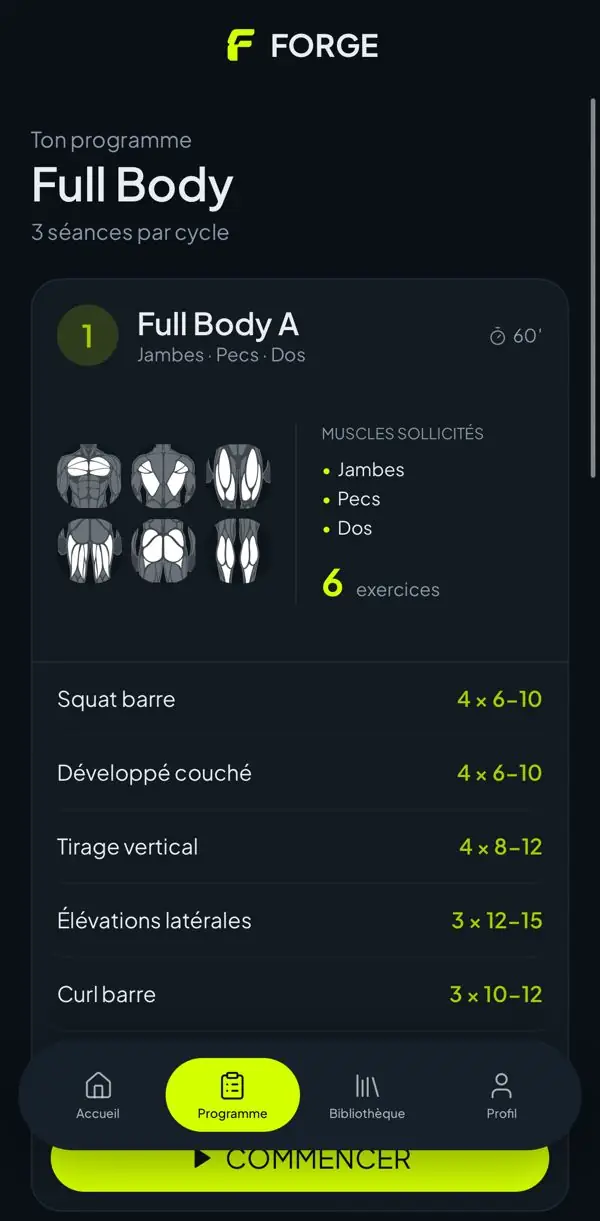
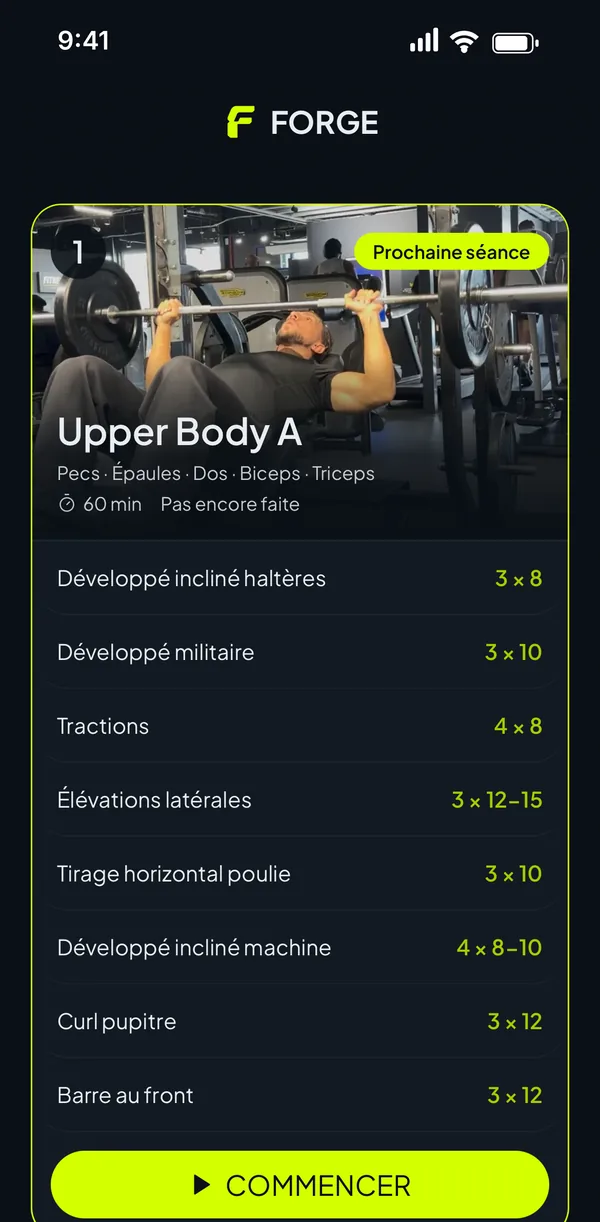
Site : écrans récents de l'app (accueil, programme, séance, bibliothèque vidéo, coach)
Claude-Session: https://claude.ai/code/session_01FYGonBcNeo2xoSqPsmddsJ

diff --git a/index.html b/index.html
@@ -9,7 +9,7 @@
 <title>FORGE Musculation</title>
 <link rel="preload" href="assets/anton.woff2" as="font" type="font/woff2" crossorigin>
 <link rel="preload" href="assets/u700.woff2" as="font" type="font/woff2" crossorigin>
-<link rel="preload" href="assets/program.webp" as="image" type="image/webp" fetchpriority="high">
+<link rel="preload" href="assets/home.webp" as="image" type="image/webp" fetchpriority="high">
 <script>var IN_APP=/musical_ly|BytedanceWebview|TikTok|Instagram|FBAN|FBAV|FB_IAB|Snapchat|Twitter|Line\//i.test(navigator.userAgent||'');if(IN_APP)document.documentElement.className='ingate'</script>
 <style>
 @font-face{font-family:"Anton";font-display:swap;src:url(assets/anton.woff2) format("woff2")}
@@ -134,7 +134,7 @@ footer .wrap{padding-block:28px;display:flex;flex-wrap:wrap;justify-content:spac
       <div class="meta"><span><span class="stars">★★★★★</span> 5,0 sur l'App Store</span><span>Gratuit · achats intégrés</span></div>
     </div>
   </div>
-  <div class="phone"><img src="assets/program.webp" width="600" height="1221" alt="Écran Programme de FORGE : programme Full Body avec ses exercices" fetchpriority="high" decoding="async"></div>
+  <div class="phone"><img src="assets/home.webp" width="600" height="1222" alt="Accueil de FORGE : séance du jour, semaine d'entraînement et repas du jour" fetchpriority="high" decoding="async"></div>
 </div></section>
 
 <hr class="rule">
@@ -147,7 +147,7 @@ footer .wrap{padding-block:28px;display:flex;flex-wrap:wrap;justify-content:spac
       <p>Full Body, Push Pull Legs, Haut / Bas : FORGE construit ton programme selon ton objectif, ton niveau, ton matériel et tes jours dispo.</p>
       <ul><li>Prise de muscle, sèche ou force</li><li>Séries et répétitions déjà calées</li></ul>
     </div>
-    <div class="phone"><img src="assets/program.webp" width="600" height="1221" alt="Programme Full Body A : squat, développé couché, tirage vertical" loading="lazy" decoding="async"></div>
+    <div class="phone"><img src="assets/program.webp" width="600" height="1222" alt="Programme Upper Body A : développé incliné, développé militaire, tractions" loading="lazy" decoding="async"></div>
   </article>
   <article class="feat">
     <div class="txt">
@@ -156,16 +156,25 @@ footer .wrap{padding-block:28px;display:flex;flex-wrap:wrap;justify-content:spac
       <p>Tu vois ce que tu as fait la dernière fois, tu notes tes kilos et tes reps, et tu sais tout de suite si tu as progressé.</p>
       <ul><li>Performances précédentes affichées</li><li>Minuteur de repos automatique</li><li>Records et graphiques de progression</li></ul>
     </div>
-    <div class="phone"><img src="assets/session.webp" width="600" height="1221" alt="Écran de séance : squat barre avec séries, kilos, reps et minuteur de repos" loading="lazy" decoding="async"></div>
+    <div class="phone"><img src="assets/session.webp" width="600" height="1222" alt="Écran de séance : hack squat avec séries, kilos et reps à valider" loading="lazy" decoding="async"></div>
   </article>
   <article class="feat">
     <div class="txt">
-      <span class="tag">Nutrition</span>
-      <h2>Tes repas dosés</h2>
-      <p>Des objectifs de calories et de macros, et des journées types déjà pesées au gramme près pour atteindre tes besoins.</p>
-      <ul><li>Calories, protéines, glucides, lipides</li><li>Idées de repas pour chaque jour</li></ul>
+      <span class="tag">Exercices</span>
+      <h2>Chaque exercice en vidéo</h2>
+      <p>Une bibliothèque d'exercices filmés par ton coach, avec une recherche et des filtres par muscle pour retrouver le bon geste.</p>
+      <ul><li>Vidéo de chaque exercice</li><li>Recherche et filtres par muscle</li></ul>
     </div>
-    <div class="phone"><img src="assets/nutrition.webp" width="600" height="1221" alt="Idées de repas : porridge banane, poulet riz légumes, fromage blanc fruits rouges" loading="lazy" decoding="async"></div>
+    <div class="phone"><img src="assets/library.webp" width="600" height="1222" alt="Bibliothèque d'exercices avec les vidéos du coach : développé couché Smith machine, développé incliné barre" loading="lazy" decoding="async"></div>
+  </article>
+  <article class="feat">
+    <div class="txt">
+      <span class="tag">Coach</span>
+      <h2>Un vrai coach, quand tu en as besoin</h2>
+      <p>Tu bloques sur une charge ou une série ? Écris à ton coach pour tes exercices, ton programme ou ta nutrition.</p>
+      <ul><li>Questions sur ton programme</li><li>Conseils sur tes charges et ton repos</li></ul>
+    </div>
+    <div class="phone"><img src="assets/coach.webp" width="600" height="1222" alt="Discussion avec le coach Mathias : conseils sur la charge et le repos" loading="lazy" decoding="async"></div>
   </article>
 </div></section>
 
